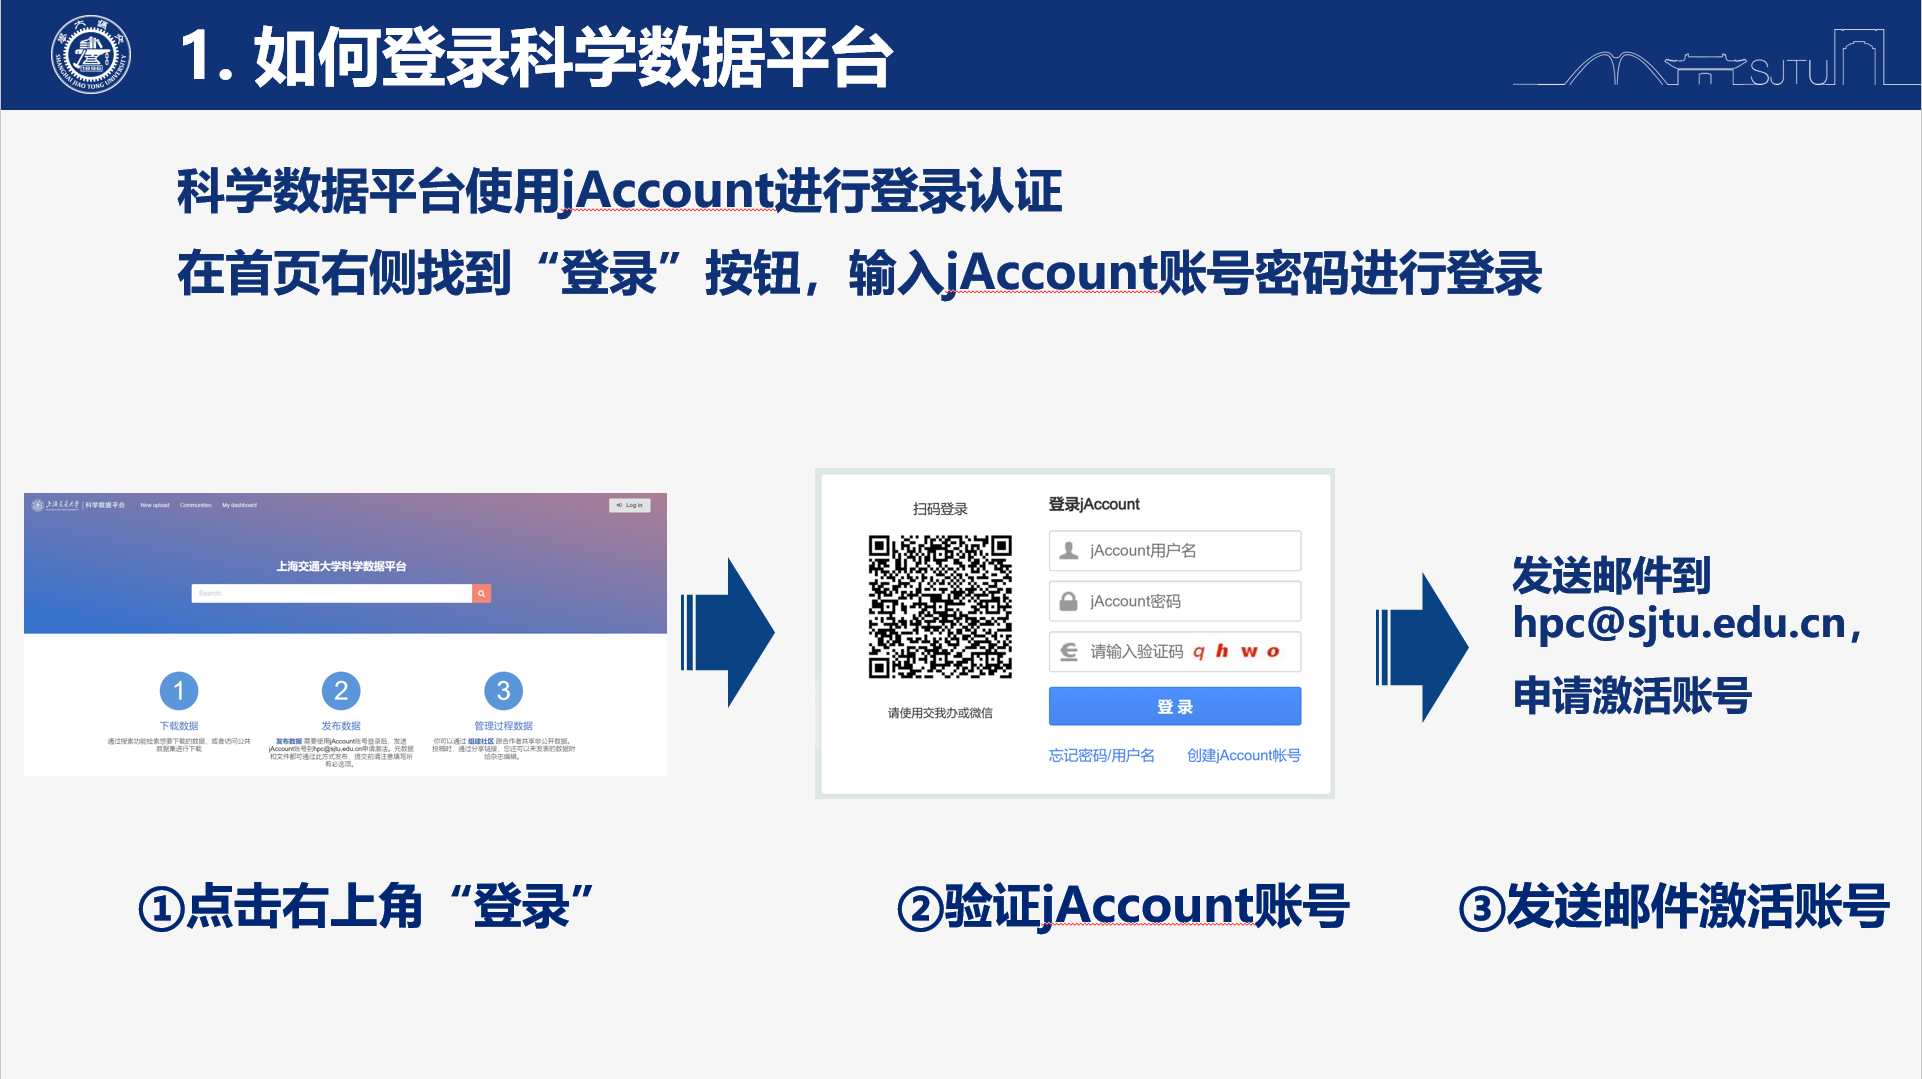
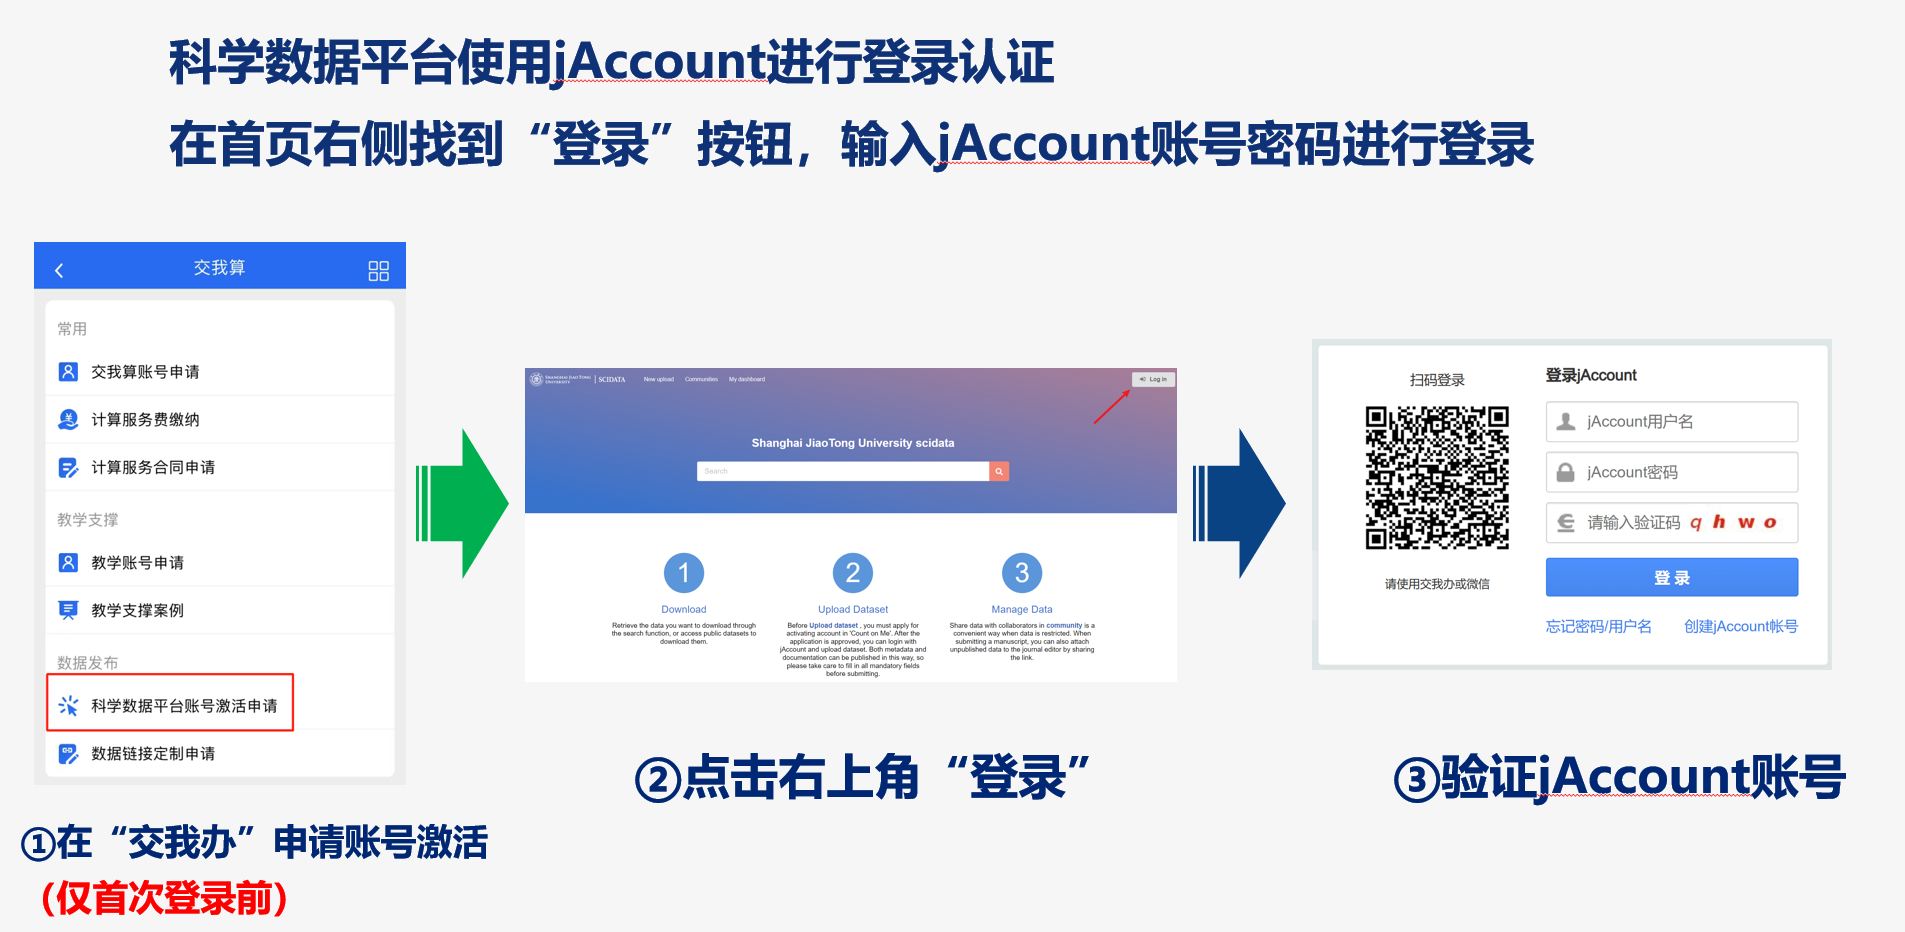
additions to scidata usage

diff --git a/docs/transport/scidatausage.rst b/docs/transport/scidatausage.rst
@@ -9,7 +9,7 @@
 --------
 
 科学数据平台使用jAccount进行登录认证，在首页找到“login”按钮后，点击跳转至jAccount认证界面。使用账号密码认证通过后，自动跳转至网站首页。
-首次登录，通过jAccount认证后，需要发送jAccount账号信息至hpc@sjtu.edu.cn，申请激活账号。
+首次登录前，需要在“交我办”中，找到“交我算”-“数据发布”-“科学数据平台账号激活申请”，申请账号激活。
 
 .. image:: ./img/scidata_login.png
 
@@ -34,4 +34,34 @@
 注意：权限设置需要谨慎，完全公开的数据，其他人将能够看到、搜索、下载所有提交的数据文件；如果成果仍在投稿阶段，需要将数据设置有私有，可以通过专属链接提供至编辑访问。
 
 .. image:: ./img/scidata_right.png
+
+建立团队空间
+-------------
+
+点击右上角“+”号，在下拉选项中选择“new community”，填写名称、标识符、简介等信息后，点击创建。
+
+.. image:: ./img/scidata_community.png
+
+分享数据
+----------
+
+在数据详情页面，点击右侧的“Share”按钮，可以生成数据详情页的相关链接。
+合作者收到链接后，点击即可查看该数据的详情页面。这种数据分享方式，即使权限设置为非公开，链接接收者仍然能够访问。 **请注意保护数据安全**
+
+下载数据
+----------
+
+包含文件的数据，在描述下方会展示所有相关联的文件，每个单独的文件名后方，具有一个方形的“download”按钮。可以直接点击按钮通过浏览器进行下载，或者右键按钮并复制链接，在命令行中使用下载工具下载。
+
+检索数据
+----------
+
+科学数据平台首页附有搜索框，通过输入关键词可以对相关数据进行搜索。在搜索结果页面左侧，支持对查找到数据的状态、类型进行筛选。
+
+开源科学数据下载
+------------------
+
+为了方便“交我算”用户使用公共开源科学数据，尤其是国外的大型公共数据，平台提供了常用公共数据的镜像。用户可以在"community"中找到所需开源科学数据的类别，进入详情页面查看数据的使用方法。
+同样，也可以直接在搜索框中检索需要的数据库名称，查看使用方法。
+【P.S.】开源科学数据扩充中，如果您有需要使用的大型开源科学数据，欢迎发邮件到hpc@sjtu.edu.cn咨询。
 
